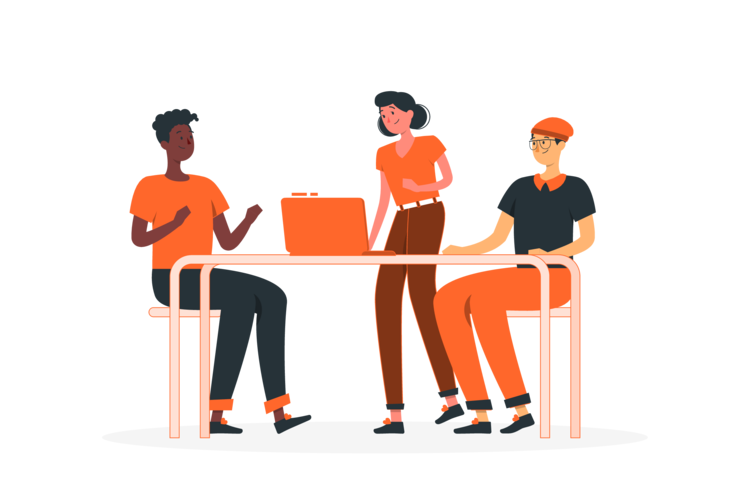
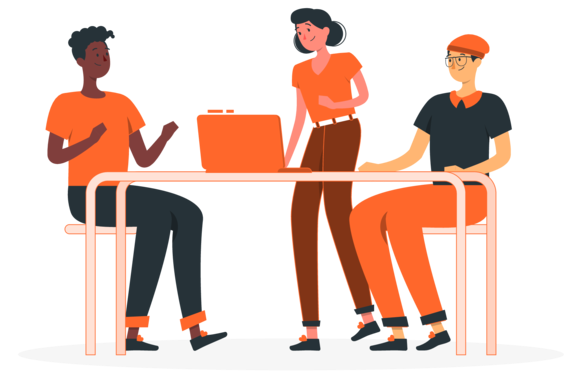
home : new picture in endpage

diff --git a/css/home.module.css b/css/home.module.css
@@ -238,8 +238,9 @@
     padding-left: 5vw;
 }
 .endpage img{
+    margin-top: 30px;
     padding: 4vw;
-    max-width: 800px;
+    max-width: 1000px;
 }
 
 
@@ -271,14 +272,14 @@
     }
 
     .bottom_calender_left button{
-        width: 200px;
+        width: 185px;
         padding: 10px 30px;
-        font-size: 12px;
+        font-size: 10px;
     }
     .bottom_calender_right button{
-        width: 200px;
+        width: 185px;
         padding: 10px 30px;
-        font-size: 12px;
+        font-size: 10px;
     }
     .recommend_container{
         flex-direction: column;
@@ -324,7 +325,7 @@
         padding-left: 0px;
     }
     .endpage img{
-        max-width: 600px;
+        max-width: 360px;
     }
 }
 
